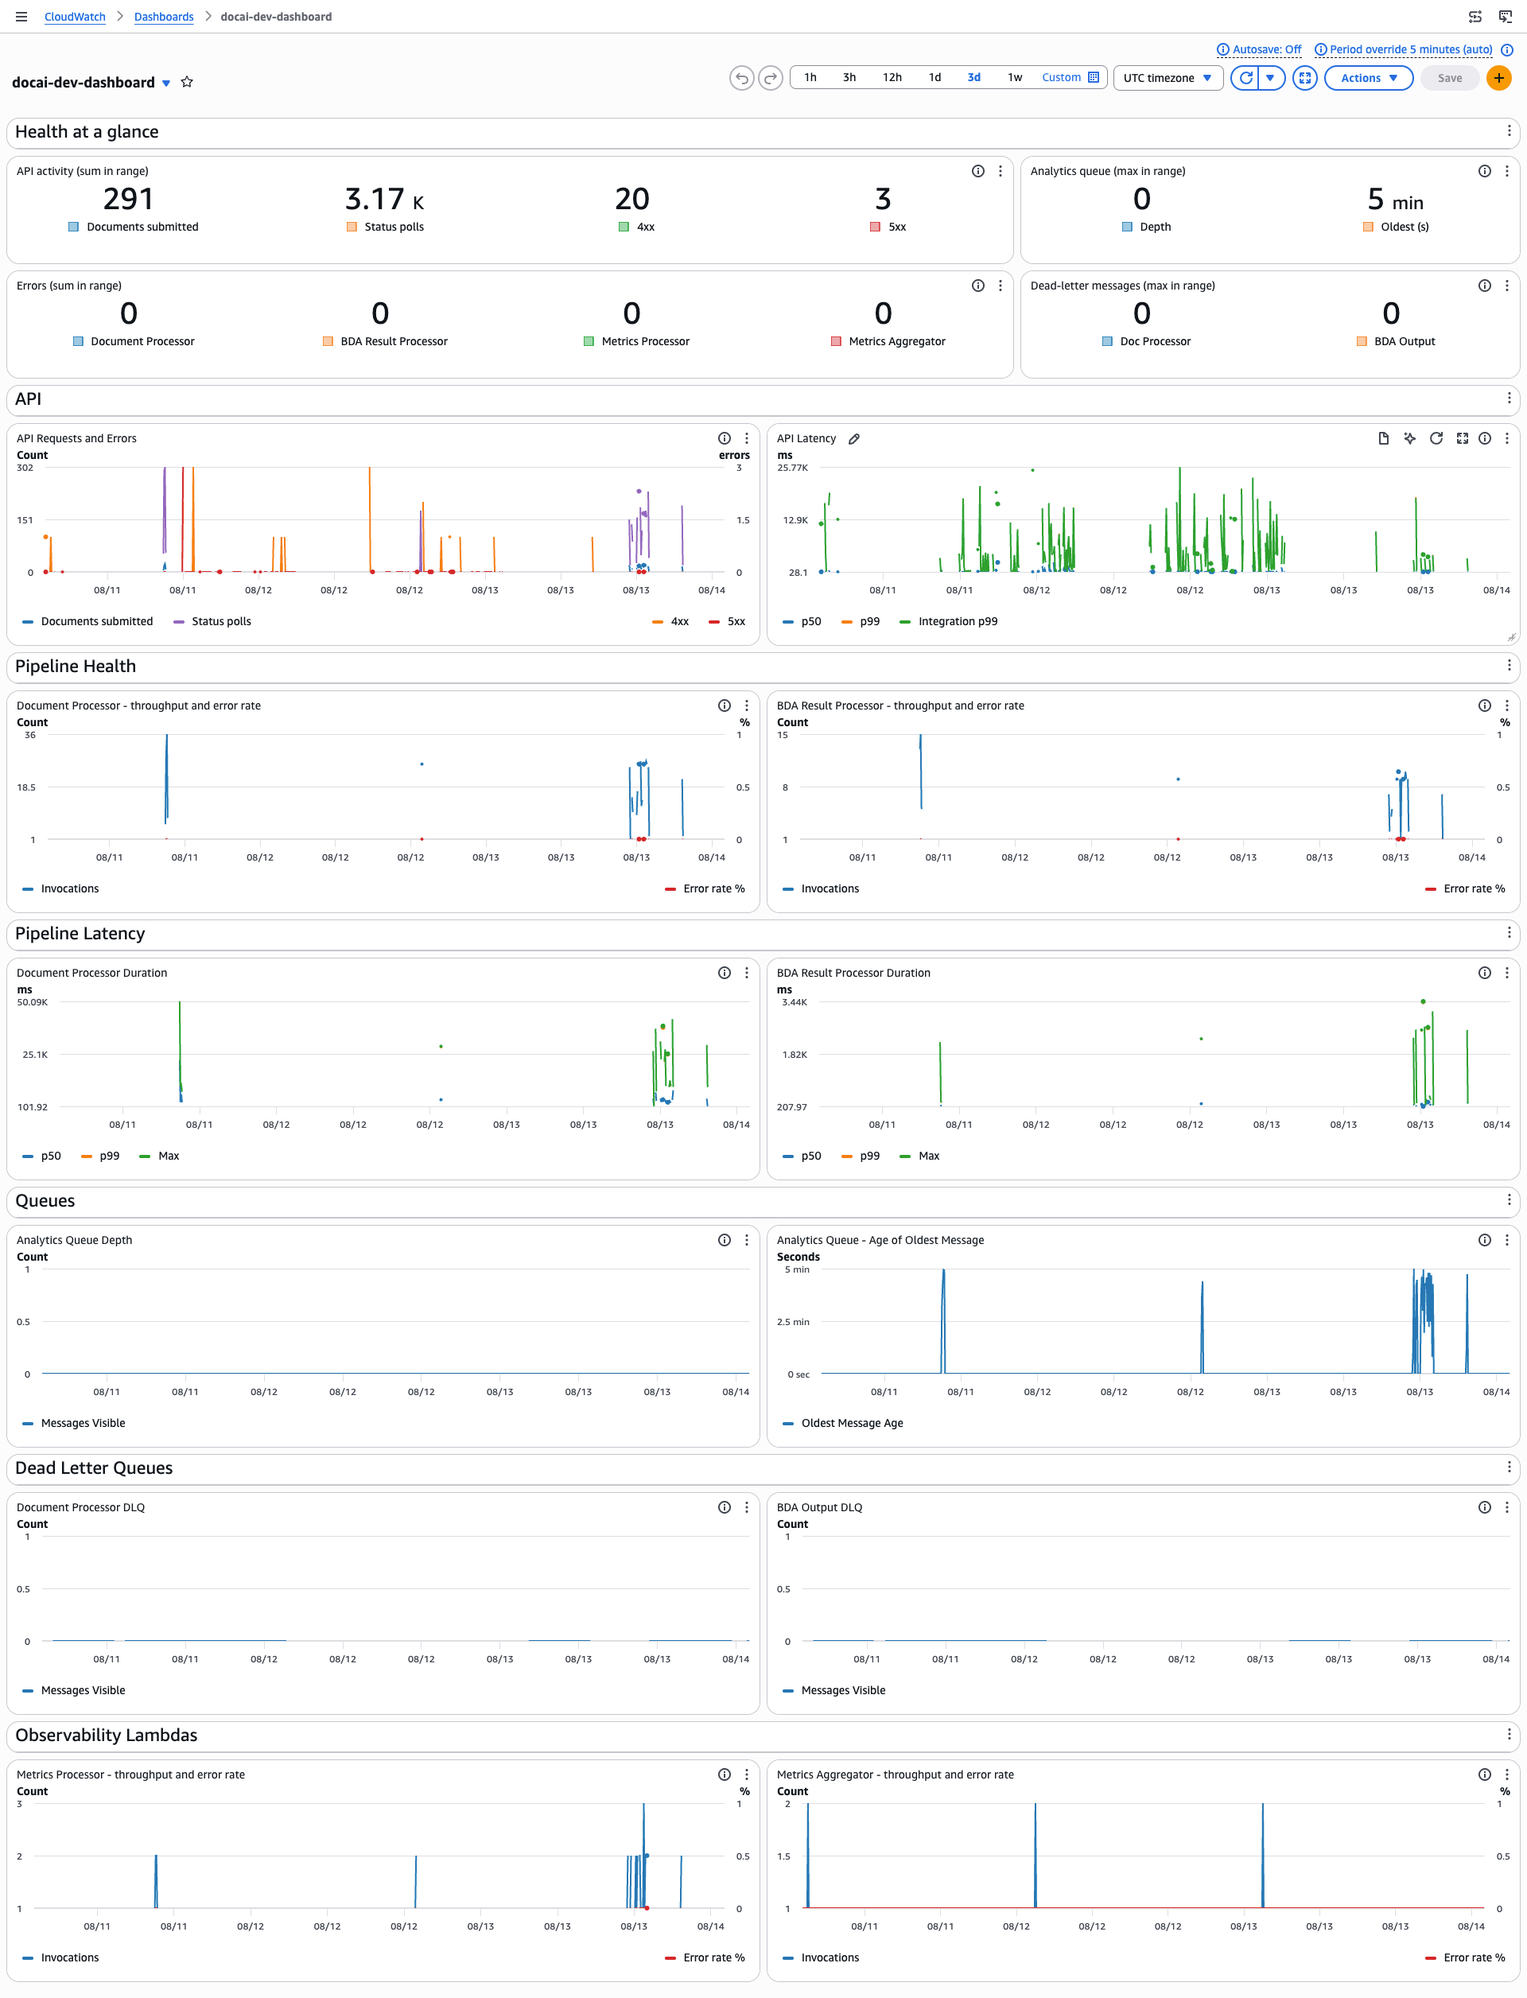
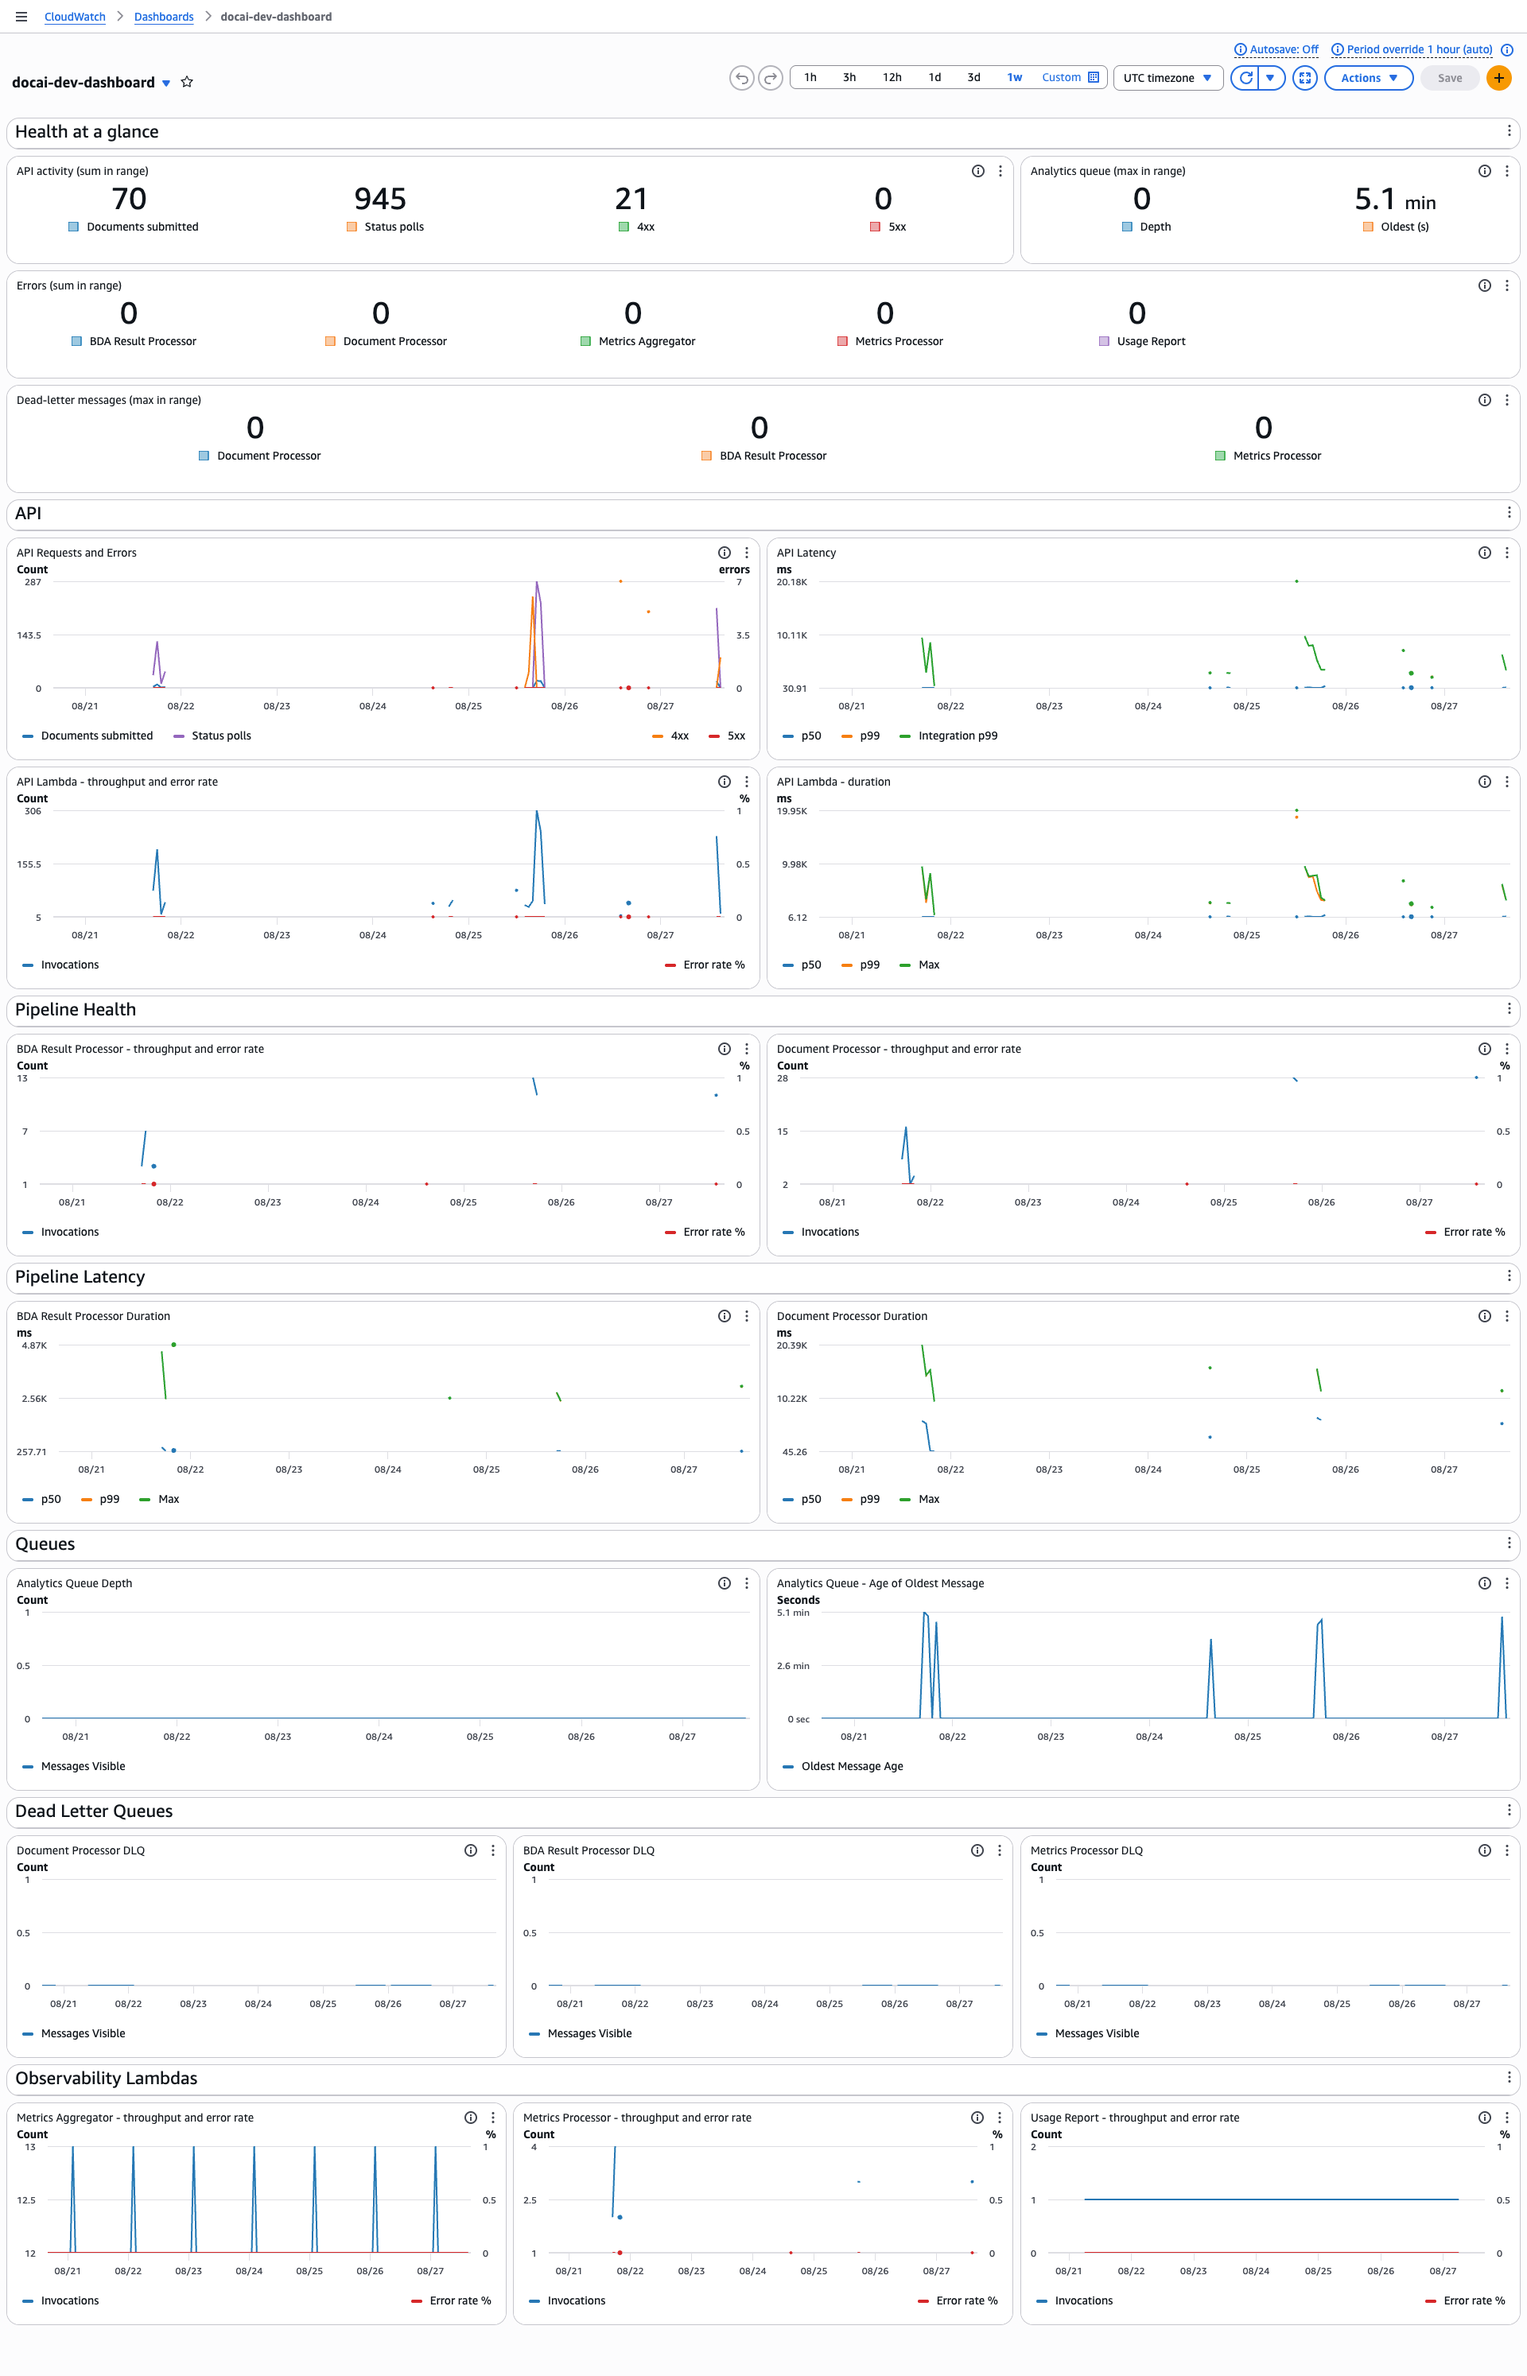
Add API Lambda alarms, usage-report, and metrics queue DLQ monitoring (#138)
- Replace per-worker function-name variables with a workers map (function_name, timeout_seconds, pipeline, scheduled, invocation_window_seconds)
- Add API Lambda alarms (errors, throttles, duration) with separate api_lambda_timeout_seconds
- Add missing-invocations alarm for scheduled workers; closes a blind spot where a broken EventBridge rule does not trigger an alarm
- Expose dlq_name output from queue module; wire metrics queue DLQ into monitoring
- Tune alarm thresholds to reduce fatigue: errors >= 3 (was 1), throttles require 2 consecutive periods (was 1), duration requires 3 (was 1); DLQ depth remains at >= 1
- Update README and inline comments throughout

diff --git a/infra/modules/monitoring/README.md b/infra/modules/monitoring/README.md
@@ -16,10 +16,11 @@ Every alarm sets both `alarm_actions` and `ok_actions` to the SNS topic, so subs
 
 | Category | Metrics | Condition |
 |----------|---------|-----------|
-| DLQ depth | `ApproximateNumberOfMessagesVisible` | ≥ 1 message for 1 period |
-| Lambda errors | `Errors` per function | ≥ 1 for 1 period |
-| Lambda throttles | `Throttles` per function | ≥ 1 for 1 period |
-| Lambda duration | `Duration` max | > 80% of configured timeout for 1 period |
+| DLQ depth | `ApproximateNumberOfMessagesVisible` | >= 1 message for 1 period |
+| Lambda errors | `Errors` per function | >= `lambda_error_threshold` (default 3) for 1 period |
+| Lambda throttles | `Throttles` per function | >= 1 for `lambda_throttle_evaluation_periods` consecutive periods (default 2) |
+| Lambda duration | `Duration` max | > 80% of configured timeout for `lambda_duration_evaluation_periods` consecutive periods (default 3) |
+| Scheduled worker invocations | `Invocations` sum | < 1 in per-worker `invocation_window_seconds`; missing data treated as breaching. On first apply a newly created alarm starts in ALARM until the first invocation lands - expected for long-window workers (e.g. daily). |
 | Metrics queue backlog | `ApproximateAgeOfOldestMessage` | > threshold for 2 periods |
 | API Gateway 5xx | `5xx` sum | > threshold for 1 period |
 | API Gateway latency | `Latency` p99 | > threshold for 3 periods |
@@ -60,13 +61,21 @@ module "monitoring" {
   api_log_metrics = module.api_gateway.api_log_metrics
 
   # Workers
-  document_processor_function_name   = module.workers["document-processor"].function_name
-  bda_result_processor_function_name = module.workers["bda-result-processor"].function_name
-  metrics_processor_function_name    = module.workers["metrics-processor"].function_name
-  metrics_aggregator_function_name   = module.workers["metrics-aggregator"].function_name
+  workers = {
+    "Document Processor"   = { function_name = module.workers["document-processor"].function_name, timeout_seconds = 300, pipeline = true, scheduled = false, invocation_window_seconds = null }
+    "BDA Result Processor" = { function_name = module.workers["bda-result-processor"].function_name, timeout_seconds = 300, pipeline = true, scheduled = false, invocation_window_seconds = null }
+    "Metrics Processor"    = { function_name = module.workers["metrics-processor"].function_name, timeout_seconds = 300, pipeline = false, scheduled = false, invocation_window_seconds = null }
+    "Metrics Aggregator"   = { function_name = module.workers["metrics-aggregator"].function_name, timeout_seconds = 300, pipeline = false, scheduled = true, invocation_window_seconds = 600 }
+    "Usage Report"         = { function_name = module.workers["usage-report"].function_name, timeout_seconds = 300, pipeline = false, scheduled = true, invocation_window_seconds = 86400 }
+  }
+
+  # API Lambda
+  api_lambda_function_name   = module.api_gateway.function_name
+  api_lambda_timeout_seconds = 30
 
   # Queues
   metrics_queue_name          = module.metrics_queue.queue_name
+  metrics_queue_dlq_name      = module.metrics_queue.dlq_name
   document_processor_dlq_name = module.workers["document-processor"].dlq_name
   bda_output_dlq_name         = module.workers["bda-result-processor"].dlq_name
 }
@@ -86,12 +95,14 @@ All inputs with defaults are optional. Pass `null` to omit a resource category f
 | `slack` | object | `null` | Chatbot Slack config (`workspace_id`, `channel_id`) |
 | `api_gateway_id` | string | `null` | API Gateway HTTP API id |
 | `api_log_metrics` | object | `null` | Custom metrics from access-log filters |
-| `document_processor_function_name` | string | `null` | Lambda function name |
-| `bda_result_processor_function_name` | string | `null` | Lambda function name |
-| `metrics_processor_function_name` | string | `null` | Lambda function name |
-| `metrics_aggregator_function_name` | string | `null` | Lambda function name |
-| `worker_timeout_seconds` | number | `300` | Duration alarm threshold base |
+| `workers` | map(object) | `{}` | Worker Lambdas to monitor. Each entry: `function_name`, `timeout_seconds` (duration alarm at 80%), `pipeline` (true = Pipeline sections, false = Observability section), `scheduled` (true = missing-invocations alarm), `invocation_window_seconds` (required when `scheduled = true`; set to the longest expected gap between runs, e.g. 600 for every-5-min, 86400 for daily) |
+| `api_lambda_function_name` | string | `null` | API Lambda function name |
+| `api_lambda_timeout_seconds` | number | `30` | API Lambda timeout; duration alarm fires at 80% |
+| `lambda_error_threshold` | number | `3` | Error count per period before alarm fires |
+| `lambda_throttle_evaluation_periods` | number | `2` | Consecutive throttle periods before alarm fires |
+| `lambda_duration_evaluation_periods` | number | `3` | Consecutive near-timeout periods before alarm fires |
 | `metrics_queue_name` | string | `null` | SQS queue name |
+| `metrics_queue_dlq_name` | string | `null` | Metrics queue DLQ name |
 | `document_processor_dlq_name` | string | `null` | DLQ name |
 | `bda_output_dlq_name` | string | `null` | DLQ name |
 

diff --git a/docs/documentai-api/observability.md b/docs/documentai-api/observability.md
@@ -50,13 +50,13 @@ A CloudWatch dashboard is provisioned by the `monitoring` Terraform module (`inf
 
 The dashboard is organized into sections:
 
-- Health at a glance - single-value scorecards for documents submitted, API 4xx/5xx, Lambda errors per function, DLQ depths, and analytics queue depth/age
-- API - request volume, error counts, and p50/p99/integration latency from API Gateway
+- Health at a glance - single-value scorecards for documents submitted, API 4xx/5xx, Lambda errors (all functions including API Lambda), DLQ depths, and analytics queue depth/age
+- API - request volume, error counts, and p50/p99/integration latency from API Gateway, plus throughput/error rate and duration for the API Lambda itself
 - Pipeline Health - invocation throughput and error rate % for Document Processor and BDA Result Processor
 - Pipeline Latency - p50/p99/max duration for the same pipeline Lambdas
 - Queues - analytics queue depth and age of oldest message
-- Dead Letter Queues - message depth for the Document Processor and BDA Output DLQs
-- Observability Lambdas - throughput and error rate % for Metrics Processor and Metrics Aggregator
+- Dead Letter Queues - message depth for the Document Processor, BDA Result Processor, and Metrics Processor DLQs
+- Observability Lambdas - throughput and error rate % for Metrics Processor, Metrics Aggregator, and Usage Report
 
 Widgets are emitted conditionally - if a resource (e.g. a DLQ or the API Gateway) is not configured for an environment, its section is omitted rather than rendering with null dimensions.
 
